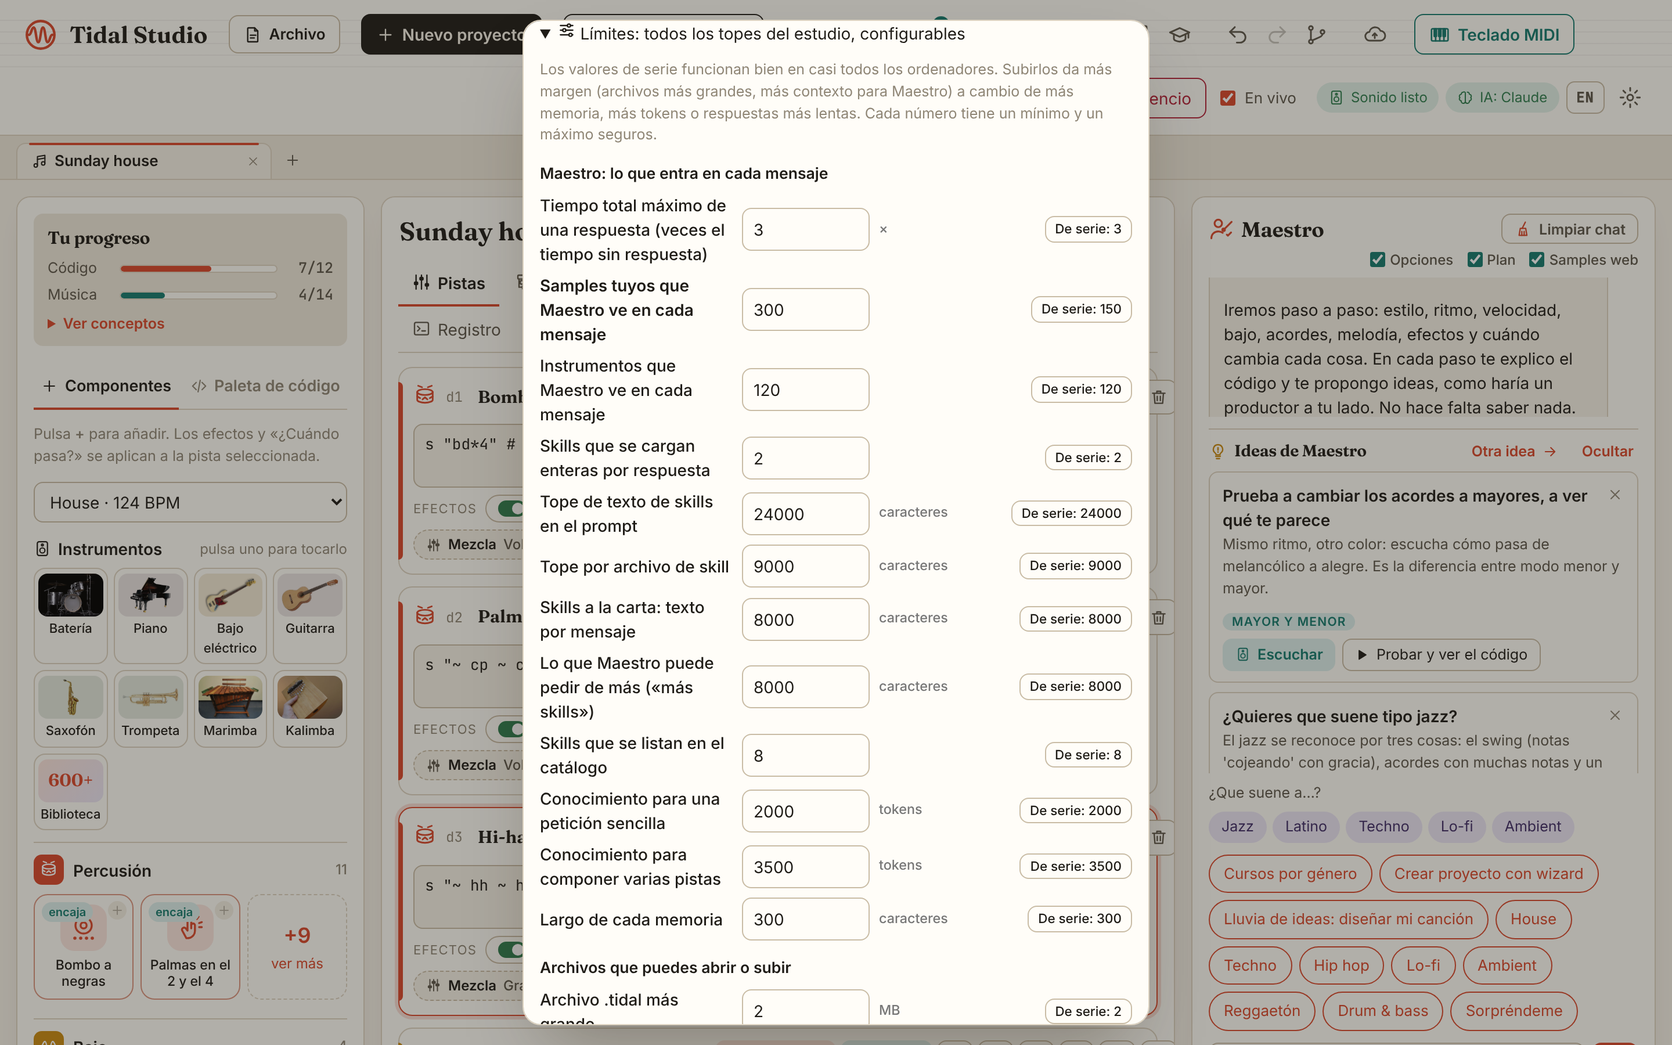
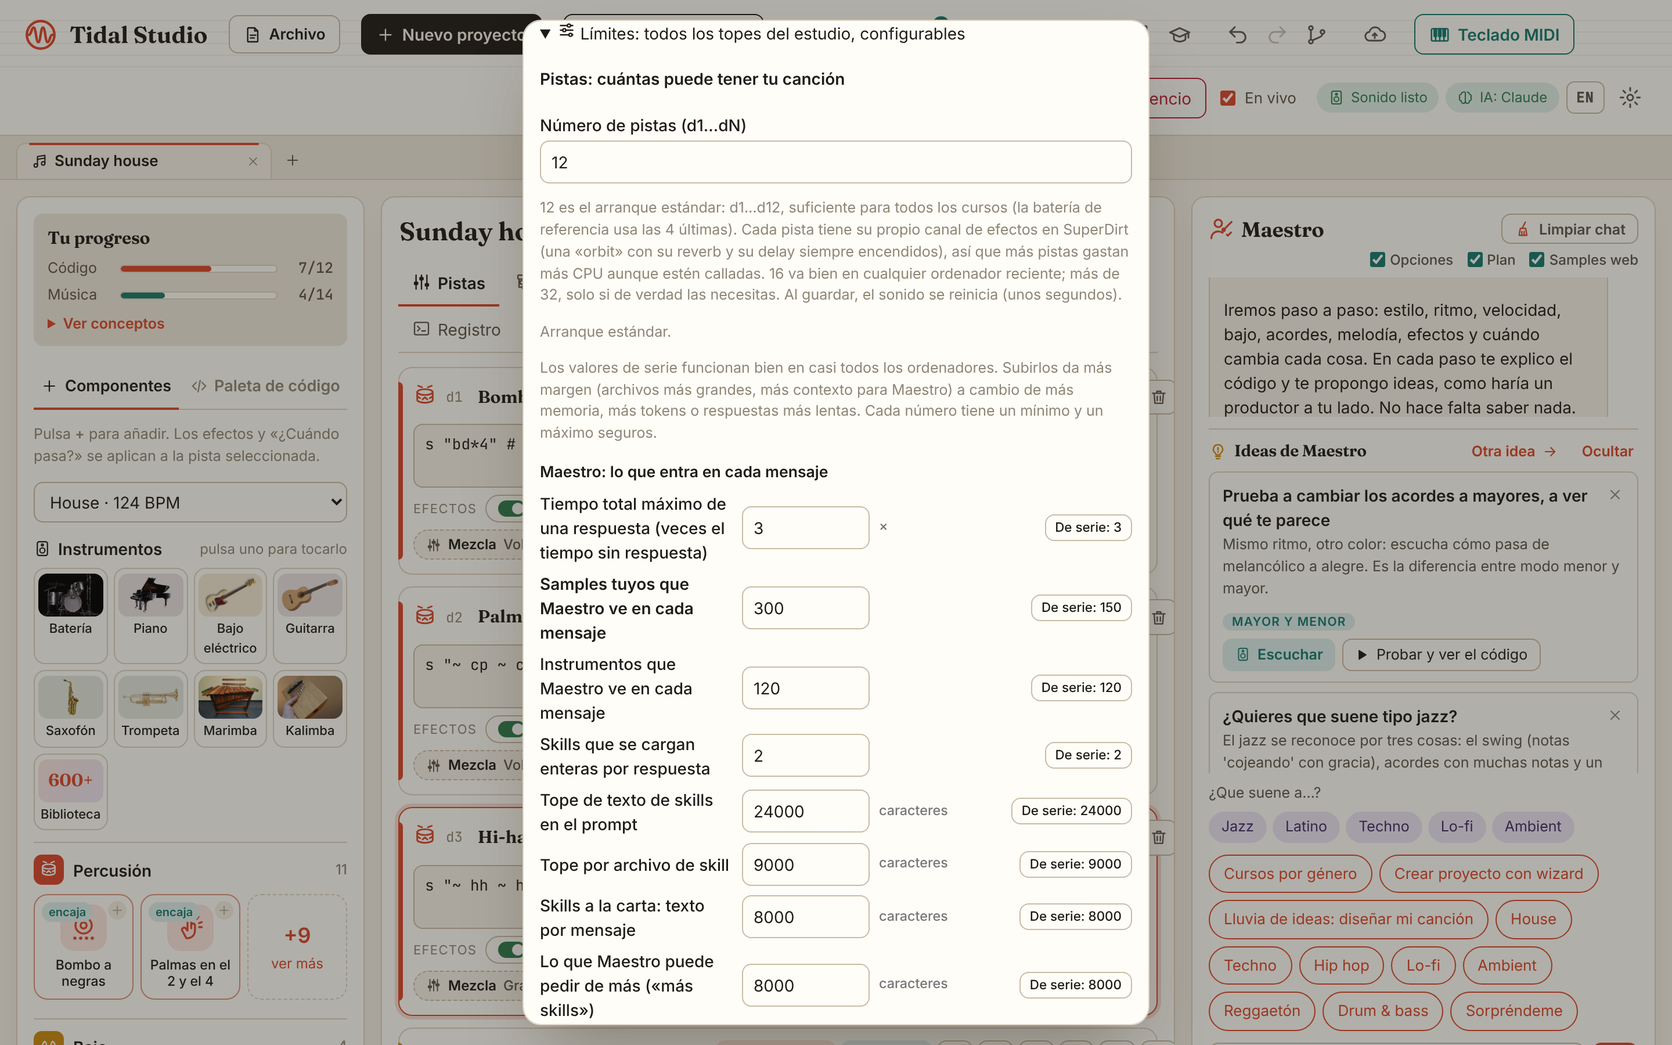
0.25.2: tracks follow Settings → Limits everywhere + code highlighting aligned on scroll (#79)
* 0.25.1: configurable number of tracks (Settings → Tracks)

12 by default, 12-32. BootTidal.hs (d1..dN) and SuperDirt orbits (N + 1, last one
for the MIDI keyboard) are generated from the setting; every hardcoded 12 now
reads it. README EN/ES, landing changelog and maestro-v2 plan note updated.

Claude-Session: https://claude.ai/code/session_011rzsaVjm4khQSLWQDVhxyD

* 0.25.1: every limit configurable (Settings → Limits)

server/limits.py registers the 30 caps (Maestro context, file sizes, sound,
songs, undo) with their current values as defaults and safe ranges; apply()
sets each module constant from config.json → limits. Settings → Limits with
a Default button per row and Reset all. README EN/ES, landing, plan note.

Claude-Session: https://claude.ai/code/session_011rzsaVjm4khQSLWQDVhxyD

* 0.25.2: more than 12 tracks everywhere + code highlighting aligned on scroll

- Maestro's changes and plans, the wizard, style recipes and shared links still
  capped track ids at d12; they now follow Settings → Tracks (tracklimit.valid_id).
- Code view: the highlight layer moves with a transform instead of its own
  scrollTop (WebKit, used by the Mac app, clamped it and the marks drifted), and
  leaves room for the textarea's scrollbar so lines wrap the same.

Claude-Session: https://claude.ai/code/session_011rzsaVjm4khQSLWQDVhxyD

* 0.25.2: tracks live in Settings → Limits (12-64), limits apply on save
[…]

diff --git a/docs/index.html b/docs/index.html
@@ -416,7 +416,8 @@ n "&lt;c'min7 f'min7&gt;" # s "superpiano"</code></div>
     <h2 class="sec-title" data-i="tn">Version 0.24.0 is out.</h2>
     <p class="sec-lead" data-i="ln">A new version every few days, each with its installers for Mac, Windows and Linux.</p>
     <ul class="vers reveal">
-      <li><b>0.25.1</b><span data-i="v251">How many tracks is now a setting: 12 by default, up to 32 in Settings → Tracks, with the TidalCycles boot and SuperDirt orbits generated from it and what each extra track costs in CPU. Every other limit (Maestro context, file sizes, sound, undo) is configurable too in Settings → Limits.</span></li>
+      <li><b>0.25.2</b><span data-i="v252">Fixes: more than 12 tracks now work everywhere (Maestro, wizard, style recipes, shared links), and the live highlighting in the Code view stays aligned when you scroll.</span></li>
+      <li><b>0.25.1</b><span data-i="v251">How many tracks is now a setting: 12 by default, up to 64 in Settings → Limits → Tracks, with the TidalCycles boot and SuperDirt orbits generated from it and what each extra track costs in CPU. Every other limit (Maestro context, file sizes, sound, undo) is configurable too in Settings → Limits.</span></li>
       <li><b>0.24.0</b><span data-i="v240">Short answers, result first: Maestro thinks and writes less by default (about 83% fewer output tokens and 3.5× faster with Sonnet 4.6), and Detailed answers are one setting away.</span></li>
       <li><b>0.23.0</b><span data-i="v230">Maestro saves its options as styles for real: ask «save the other three as styles» or press Save as a style on any option card, and the confirmation shows what was really saved.</span></li>
       <li><b>0.22.0</b><span data-i="v220">Effects, the same in every view: one chip per effect with an on/off switch and the same editor (slider, value, remove) in Tracks, Blocks and Code, + effect everywhere, and a light editor.</span></li>
@@ -535,7 +536,8 @@ const ES = {
   f20h: "Un plan, paso a paso", f20p: "Pide una canción entera y Maestro primero te enseña un plan, como una lluvia de ideas con un productor. Apruébalo o cámbialo y construye la canción paso a paso, guardando cada uno: si la IA tarda demasiado, no se pierde nada.",
   f16h: "Maestro consigue los sonidos", f16p: "Si a tu canción le falta un sonido que no tienes, como un cencerro de verdad o crujido de vinilo, Maestro busca uno con licencia libre en internet, lo descarga, apunta los créditos y lo hace sonar. Antes de bajar paquetes grandes te pregunta.",
   f18h: "Archivos de Tidal en pestañas", f18p: "Abre cualquier .tidal o .hs de tu disco o una canción de GitHub, cada uno en su pestaña, y ciérralos al terminar; Guardar escribe un .tidal limpio que suena en cualquier editor de Tidal.",
-  v251: "Cuántas pistas ahora es un ajuste: 12 de serie, hasta 32 en Ajustes → Pistas, con el arranque de TidalCycles y las orbits de SuperDirt generados a partir de él y lo que cuesta en CPU cada pista de más. Todos los demás límites (contexto de Maestro, tamaños de archivo, sonido, deshacer) también se configuran en Ajustes → Límites.",
+  v252: "Arreglos: más de 12 pistas ya funcionan en todas partes (Maestro, asistente, recetas de estilo, enlaces compartidos) y el resaltado en directo de la vista Código sigue alineado al hacer scroll.",
+  v251: "Cuántas pistas ahora es un ajuste: 12 de serie, hasta 64 en Ajustes → Límites → Pistas, con el arranque de TidalCycles y las orbits de SuperDirt generados a partir de él y lo que cuesta en CPU cada pista de más. Todos los demás límites (contexto de Maestro, tamaños de archivo, sonido, deshacer) también se configuran en Ajustes → Límites.",
   v240: "Respuestas cortas, primero el resultado: Maestro piensa y escribe menos por defecto (unos 83% menos tokens de salida y 3,5 veces más rápido con Sonnet 4.6), y las respuestas Detalladas están a un ajuste.",
   v230: "Maestro guarda sus opciones como estilos de verdad: pide «guárdame las otras tres como estilos» o pulsa Guardar como estilo en cualquier tarjeta de opción, y la confirmación enseña lo que se guardó de verdad.",
   v220: "Efectos, iguales en todas las vistas: una ficha por efecto con interruptor y el mismo editor (deslizador, valor, quitar) en Pistas, Bloques y Código, + efecto en todas, y un editor claro.",

diff --git a/web/code-hl.js b/web/code-hl.js
@@ -60,14 +60,28 @@ function markup(code, play = []) {
 const COPY = ["fontFamily", "fontSize", "fontWeight", "lineHeight", "letterSpacing", "tabSize", "whiteSpace", "overflowWrap", "wordBreak",
   "paddingTop", "paddingRight", "paddingBottom", "paddingLeft", "borderTopWidth", "borderRightWidth", "borderBottomWidth", "borderLeftWidth", "boxSizing"];
 
+// La capa no tiene barra de scroll propia: se mueve con transform lo mismo que el textarea se ha desplazado
+// (0.25.2: con scrollTop la capa no podía bajar tanto como el textarea y el resaltado se quedaba desalineado),
+// y deja a la derecha el mismo hueco que ocupe la barra de scroll del textarea, para que las líneas partan igual.
+function follow(ta) {
+  const w = ta._hl;
+  if (!w) return;
+  w.inner.style.transform = `translate(${-ta.scrollLeft}px, ${-ta.scrollTop}px)`;
+}
+function fit(ta, cs) {
+  const w = ta._hl;
+  const bars = ta.offsetWidth - ta.clientWidth - parseFloat(cs.borderLeftWidth) - parseFloat(cs.borderRightWidth);
+  w.pre.style.paddingRight = `${parseFloat(cs.paddingRight) + Math.max(0, bars)}px`;
+}
 function update(ta) {
   const w = ta._hl;
   if (!w || !ta.isConnected) { attached.delete(ta); return; }
   const cs = getComputedStyle(ta);
   for (const k of COPY) w.pre.style[k] = cs[k];
-  w.pre.innerHTML = markup(ta.value, ta._play || []);
+  fit(ta, cs);
+  w.inner.innerHTML = markup(ta.value, ta._play || []);
   w.sig = JSON.stringify(ta._play || []);
-  w.pre.scrollTop = ta.scrollTop; w.pre.scrollLeft = ta.scrollLeft;
+  follow(ta);
   const miss = missingIn(ta.value);
   w.note.hidden = !miss.length;
   w.note.textContent = miss.length ? L(`No existe en SuperDirt: ${miss.join(", ")}. Revisa el nombre o instala el sonido.`,
@@ -77,6 +91,9 @@ function update(ta) {
 export function attachHighlight(ta) {
   if (ta._hl) { update(ta); return; }
   const wrap = document.createElement("div"), pre = document.createElement("pre"), note = document.createElement("div");
+  const inner = document.createElement("div");
+  inner.className = "hl-inner";
+  pre.append(inner);
   wrap.className = "hlwrap" + (ta.id ? ` hlwrap-${ta.id}` : "");
   pre.className = "hl"; pre.setAttribute("aria-hidden", "true");
   note.className = "miss-note"; note.hidden = true;
@@ -85,9 +102,11 @@ export function attachHighlight(ta) {
   ta.parentNode.insertBefore(wrap, ta);
   wrap.append(pre, ta);
   wrap.after(note);
-  ta._hl = { pre, note };
+  ta._hl = { pre, inner, note };
   ta.addEventListener("input", () => update(ta));
-  ta.addEventListener("scroll", () => { pre.scrollTop = ta.scrollTop; pre.scrollLeft = ta.scrollLeft; });
+  ta.addEventListener("scroll", () => follow(ta));
+  // El textarea cambia de tamaño (ventana, paneles, aparece la barra de scroll): mismo ancho de línea en la capa
+  if (typeof ResizeObserver !== "undefined") new ResizeObserver(() => { if (ta.isConnected) { fit(ta, getComputedStyle(ta)); follow(ta); } }).observe(ta);
   attached.add(ta);
   update(ta);
 }
@@ -99,6 +118,6 @@ export function setPlayRanges(ta, ranges) {
   const sig = JSON.stringify(ranges);
   if (sig === ta._hl.sig) return;
   ta._play = ranges; ta._hl.sig = sig;
-  ta._hl.pre.innerHTML = markup(ta.value, ranges);
-  ta._hl.pre.scrollTop = ta.scrollTop;
+  ta._hl.inner.innerHTML = markup(ta.value, ranges);
+  follow(ta);
 }

diff --git a/web/index.html b/web/index.html
@@ -403,15 +403,13 @@
           <span class="hint" data-t="Several .tidal files at once, with the option to delete the local copies.">Varios .tidal a la vez, con la opción de eliminar las copias locales.</span>
         </div>
       </details>
-      <details id="tracks-section">
-        <summary><i data-icon="tracks" data-size="16"></i> <span data-t="Tracks: how many your songs can have">Pistas: cuántas puede tener tu canción</span></summary>
-        <label><span data-t="Number of tracks (d1…dN)">Número de pistas (d1…dN)</span>
-          <input type="number" id="tracks-count" min="12" max="32" step="1" value="12"></label>
-        <p class="hint" data-t="12 is the standard start: d1…d12, enough for every course (the reference drummer uses the last 4). Each track gets its own effects channel in SuperDirt (an «orbit» with its reverb and delay always on), so more tracks use more CPU even when they are silent. 16 is fine on any recent computer; above 24, only if you really need them. Saving restarts the sound (a few seconds).">12 es el arranque estándar: d1…d12, suficiente para todos los cursos (la batería de referencia usa las 4 últimas). Cada pista tiene su propio canal de efectos en SuperDirt (una «orbit» con su reverb y su delay siempre encendidos), así que más pistas gastan más CPU aunque estén calladas. 16 va bien en cualquier ordenador reciente; más de 24, solo si de verdad las necesitas. Al guardar, el sonido se reinicia (unos segundos).</p>
-        <p class="hint" id="tracks-cpu"></p>
-      </details>
       <details id="limits-section">
         <summary><i data-icon="sliders" data-size="16"></i> <span data-t="Limits: every cap of the studio, configurable">Límites: todos los topes del estudio, configurables</span></summary>
+        <h4 class="lm-group" data-t="Tracks: how many your songs can have">Pistas: cuántas puede tener tu canción</h4>
+        <label><span data-t="Number of tracks (d1…dN)">Número de pistas (d1…dN)</span>
+          <input type="number" id="tracks-count" min="12" max="64" step="1" value="12"></label>
+        <p class="hint" data-t="12 is the standard start: d1…d12, enough for every course (the reference drummer uses the last 4). Each track gets its own effects channel in SuperDirt (an «orbit» with its reverb and delay always on), so more tracks use more CPU even when they are silent. 16 is fine on any recent computer; above 32, only if you really need them. Saving restarts the sound (a few seconds).">12 es el arranque estándar: d1…d12, suficiente para todos los cursos (la batería de referencia usa las 4 últimas). Cada pista tiene su propio canal de efectos en SuperDirt (una «orbit» con su reverb y su delay siempre encendidos), así que más pistas gastan más CPU aunque estén calladas. 16 va bien en cualquier ordenador reciente; más de 32, solo si de verdad las necesitas. Al guardar, el sonido se reinicia (unos segundos).</p>
+        <p class="hint" id="tracks-cpu"></p>
         <div id="limits-settings"></div>
       </details>
       <details id="upd-section">

diff --git a/web/app.js b/web/app.js
@@ -280,7 +280,7 @@ function selectedTrack() {
 }
 function addTrack(name, kind, code) {
   const id = freeId();
-  if (!id) { toast(L(`Máximo ${maxTracks()} pistas. Borra alguna o sube el número en Ajustes → Pistas.`, `Maximum ${maxTracks()} tracks. Delete one or raise the number in Settings → Tracks.`)); return null; }
+  if (!id) { toast(L(`Máximo ${maxTracks()} pistas. Borra alguna o sube el número en Ajustes → Límites.`, `Maximum ${maxTracks()} tracks. Delete one or raise the number in Settings → Limits.`)); return null; }
   const t = { id, name, kind, code, muted: false };
   state.tracks.push(t);
   state.selected = id;
@@ -3739,7 +3739,7 @@ function toggleProvider() {
   const p = document.querySelector("input[name=provider]:checked").value;
   $("#fs-openai").hidden = p !== "openai"; $("#fs-anthropic").hidden = p !== "anthropic"; $("#fs-claudecode").hidden = p !== "claudecode";
 }
-// Ajustes → Pistas: lo que cuesta cada número, en una frase
+// Ajustes → Límites: lo que cuesta cada número, en una frase
 function tracksCpuHint() {
   const n = Math.max(TRACKS_MIN, Math.min(TRACKS_MAX, Math.round(+$("#tracks-count").value || 12)));
   const extra = Math.round((n + 1) / 13 * 100) - 100;
@@ -3883,7 +3883,7 @@ function importSharedSong() {
   history.replaceState(null, "", location.pathname);
   try {
     const d = JSON.parse(unb64url(m[1]));
-    const tracks = (d.tracks || []).filter((t) => Array.isArray(t) && /^d([1-9]|1[0-2])$/.test(t[0])).map(([id, name, kind, code, muted]) => ({ id, name: String(name || id).slice(0, 60), kind: String(kind || "textura"), code: String(code || "").slice(0, 2000), muted: !!muted }));
+    const tracks = (d.tracks || []).filter((t) => Array.isArray(t) && /^d[1-9]\d?$/.test(t[0]) && +t[0].slice(1) <= maxTracks()).map(([id, name, kind, code, muted]) => ({ id, name: String(name || id).slice(0, 60), kind: String(kind || "textura"), code: String(code || "").slice(0, 2000), muted: !!muted }));
     if (!tracks.length) return;
     openTabSlot();
     state = { ...FRESH(), name: String(d.name || L("Canción compartida", "Shared song")).slice(0, 80), bpm: Math.max(40, Math.min(220, +d.bpm || 120)), style: STYLES[d.style] ? d.style : "", tracks, step: "libre" };

diff --git a/docs/screenshot-tool/v0251.js b/docs/screenshot-tool/v0251.js
@@ -1,4 +1,4 @@
-// Capturas de 0.25.1: Ajustes → Pistas (16 y lo que cuesta en CPU) y Ajustes → Límites (todos los topes).
+// Capturas de 0.25.1: Ajustes → Límites → Pistas (16 y lo que cuesta en CPU) y Ajustes → Límites (todos los topes).
 //   OUT=../screenshots LANGS=en,es node v0251.js
 const { chromium, open, shot, sunday, T } = require('./lib');
 
@@ -9,10 +9,10 @@ const scenes = {
     await page.waitForSelector('#settings[open]'); await page.waitForTimeout(400);
     await page.evaluate(() => {
       document.querySelectorAll('#settings details').forEach((d) => { d.open = false; });
-      const d = document.querySelector('#tracks-section'); d.open = true;
+      const d = document.querySelector('#limits-section'); d.open = true;
       const i = document.querySelector('#tracks-count'); i.value = 16; i.dispatchEvent(new Event('input'));
-      d.scrollIntoView({ block: 'center' });
-      d.style.outline = '3px solid #e0a43a'; d.style.outlineOffset = '3px';
+      d.querySelector('summary').scrollIntoView({ block: 'start' });
+      const cpu = document.querySelector('#tracks-cpu'); cpu.style.outline = '3px solid #e0a43a'; cpu.style.outlineOffset = '3px';
     });
     await page.waitForTimeout(300);
     await shot(page, T(lang, 'numero-de-pistas', 'tracks-setting'), lang);

diff --git a/web/importsong.js b/web/importsong.js
@@ -246,7 +246,7 @@ function resultView() {
     </div>
     <h3>${L("Pistas de Tidal", "Tidal tracks")} <span class="hint">${L("· quita las que no quieras", "· untick the ones you don't want")}</span></h3>
     <div class="imp-tracks">${tracks.map((t, i) => `<label class="imp-track k-${esc(t.tipo)}"><input type="checkbox" data-i="${i}" ${cur.off.has(i) ? "" : "checked"}>${icon(KIND_ICON[t.tipo] || "textura", 16)}<b>${esc(t.nombre)}</b><code>${esc(t.codigo)}</code></label>`).join("")}</div>
-    ${s.dropped && s.dropped.length ? `<p class="hint">${L(`No caben más de ${maxTracks()} pistas (Ajustes → Pistas); he dejado fuera: `, `Only ${maxTracks()} tracks fit (Settings → Tracks); I left out: `)}${esc(s.dropped.join(", "))}</p>` : ""}
+    ${s.dropped && s.dropped.length ? `<p class="hint">${L(`No caben más de ${maxTracks()} pistas (Ajustes → Límites); he dejado fuera: `, `Only ${maxTracks()} tracks fit (Settings → Limits); I left out: `)}${esc(s.dropped.join(", "))}</p>` : ""}
     <div class="wz-nav">
       <button data-a="back">${icon("back", 16)} ${L("Otro archivo", "Another file")}</button>
       <div class="right">

diff --git a/web/wizard.js b/web/wizard.js
@@ -2,6 +2,7 @@
 // con cambios concretos para probar. Esta parte funciona sin IA; con IA, los ejemplos y el plan se adaptan a ti.
 import { STYLES, byId } from "./catalog.js";
 import { L, EN } from "./i18n.js";
+import { maxTracks } from "./tracklimit.js";
 
 export const QUESTIONS = [
   { id: "sensacion", pregunta: L("¿Qué quieres que sienta quien escuche tu canción?", "What do you want listeners to feel?"),
@@ -136,7 +137,7 @@ export function buildLocalPlan(a, tracks) {
   const style = pickStyle(a);
   const bpm = pickBpm(a, style);
   const used = new Set(tracks.map((t) => t.id));
-  const nextId = () => { for (let i = 1; i <= 12; i++) if (!used.has("d" + i)) { used.add("d" + i); return "d" + i; } return null; };
+  const nextId = () => { for (let i = 1; i <= maxTracks(); i++) if (!used.has("d" + i)) { used.add("d" + i); return "d" + i; } return null; };
   const sugerencias = [];
   const addComp = (compId, titulo, extraWrap = "") => {
     const c = byId[compId]; const id = nextId();

diff --git a/web/style.css b/web/style.css
@@ -738,6 +738,7 @@ label.card-field { grid-template-columns: 70px 1fr; }
 .hlwrap-code { flex: 1; min-height: 300px; }
 .hlwrap-code > #code { flex: 1; }
 .hlwrap > pre.hl { position: absolute; inset: 0; margin: 0; overflow: hidden; color: transparent; pointer-events: none; z-index: 0; border-style: solid; border-color: transparent; }
+.hlwrap > pre.hl > .hl-inner { white-space: inherit; overflow-wrap: inherit; word-break: inherit; }
 .hlwrap mark.miss { color: transparent; background: rgba(198, 40, 40, 0.18); border-bottom: 2px solid #c62828; border-radius: 2px; }
 .miss-note { color: #b71c1c; font-size: 12px; margin-top: 4px; }
 .hlwrap > textarea { margin: 0; }

diff --git a/web/flavors.js b/web/flavors.js
@@ -1,10 +1,11 @@
 import { L } from "./i18n.js";
+import { maxTracks } from "./tracklimit.js";
 // "Recetas de estilo": transforman TU canción para que suene a otro género, paso a paso.
 // Cada paso dice qué pista cambia y por qué, para que aprendas a hacerlo tú.
 
 const free = (tracks, extra = []) => {
   const used = new Set([...tracks.map((t) => t.id), ...extra]);
-  for (let i = 1; i <= 12; i++) if (!used.has("d" + i)) return "d" + i;
+  for (let i = 1; i <= maxTracks(); i++) if (!used.has("d" + i)) return "d" + i;
   return null;
 };
 const byKind = (tracks, k) => tracks.filter((t) => t.kind === k && !t.muted);

diff --git a/web/tracklimit.js b/web/tracklimit.js
@@ -1,6 +1,6 @@
-// Cuántas pistas (d1…dN) tiene el estudio (0.25.1). Lo dice el servidor en /api/status (Ajustes → Pistas);
+// Cuántas pistas (d1…dN) tiene el estudio (0.25.1). Lo dice el servidor en /api/status (Ajustes → Límites → Pistas);
 // 12 hasta que conteste. Ver server/tracklimit.py: cada pista es una orbit de SuperDirt (más pistas, más CPU).
-export const TRACKS_MIN = 12, TRACKS_MAX = 32;
+export const TRACKS_MIN = 12, TRACKS_MAX = 64;
 let max = 12;
 export const maxTracks = () => max;
 export function setMaxTracks(n) {

diff --git a/server/assistant.py b/server/assistant.py
@@ -17,6 +17,7 @@ import json
 import re
 
 import score as scoremod
+import tracklimit
 
 SYSTEM_PROMPT = """Eres "Maestro", profesor de TidalCycles y productor musical. Tidal Studio es una plataforma para APRENDER MÚSICA y TidalCycles a la vez, creando canciones de verdad, y tú acompañas al alumno en cada paso como lo haría un buen profesor de producción musical. El alumno es principiante absoluto: hablas en español, con frases cortas y sin jerga; si usas un término técnico (BPM, reverb, ciclo, patrón…) lo explicas en media frase.
 
@@ -308,7 +309,7 @@ def parse_plan(data):
         if isinstance(p, dict) and p.get("titulo"):
             pasos.append({"titulo": str(p["titulo"])[:120], "que": str(p.get("que") or "")[:400],
                           "aspecto": str(p.get("aspecto") or "otro")[:20],
-                          "pistas": [str(x) for x in (p.get("pistas") or []) if re.fullmatch(r"d([1-9]|1[0-2])", str(x))][:4]})
+                          "pistas": [str(x) for x in (p.get("pistas") or []) if tracklimit.valid_id(x)][:4]})
     if len(pasos) < 2:
         return None
     return {"titulo": str(pl.get("titulo") or "Plan")[:120], "resumen": str(pl.get("resumen") or "")[:500], "pasos": pasos}
@@ -406,7 +407,7 @@ def _parse_changes(cambios):
         if not isinstance(p, dict):
             continue
         tid = str(p.get("id", "")).strip()
-        if not re.fullmatch(r"d([1-9]|1[0-2])", tid):
+        if not tracklimit.valid_id(tid):
             continue
         pistas.append({
             "id": tid,

diff --git a/tests/test_tracklimit.py b/tests/test_tracklimit.py
@@ -20,7 +20,7 @@ class TrackLimit(unittest.TestCase):
 
     def test_clamp(self):
         self.assertEqual(tracklimit.clamp(4), 12)
-        self.assertEqual(tracklimit.clamp(99), 32)
+        self.assertEqual(tracklimit.clamp(99), 64)
         self.assertEqual(tracklimit.clamp("16"), 16)
         self.assertEqual(tracklimit.clamp("x"), 12)
         self.assertEqual(tracklimit.count({"tracks": {"count": 20}}), 20)
@@ -34,6 +34,22 @@ class TrackLimit(unittest.TestCase):
         self.assertIn("eqlow = pF", text)
         self.assertIn("TIDAL_STUDIO_READY", text)
         self.assertLess(text.index("setcps"), text.index("d1 ="))
+
+    def test_valid_ids_go_past_12(self):
+        self.assertTrue(tracklimit.valid_id("d20"))
+        self.assertTrue(tracklimit.valid_id("d64"))
+        self.assertFalse(tracklimit.valid_id("d65"))
+        self.assertFalse(tracklimit.valid_id("d0"))
+        self.assertFalse(tracklimit.valid_id("x1"))
+
+    def test_no_hardcoded_12_track_ids_left(self):
+        import re as _re
+        bad = _re.compile(r"1\[0-2\]|i <= 12;")
+        for folder, ext in (("server", ".py"), ("web", ".js")):
+            for name in os.listdir(os.path.join(ROOT, folder)):
+                if name.endswith(ext):
+                    text = open(os.path.join(ROOT, folder, name), encoding="utf-8").read()
+                    self.assertIsNone(bad.search(text), name)
 
     def test_write_boot(self):
         with tempfile.TemporaryDirectory() as tmp:
